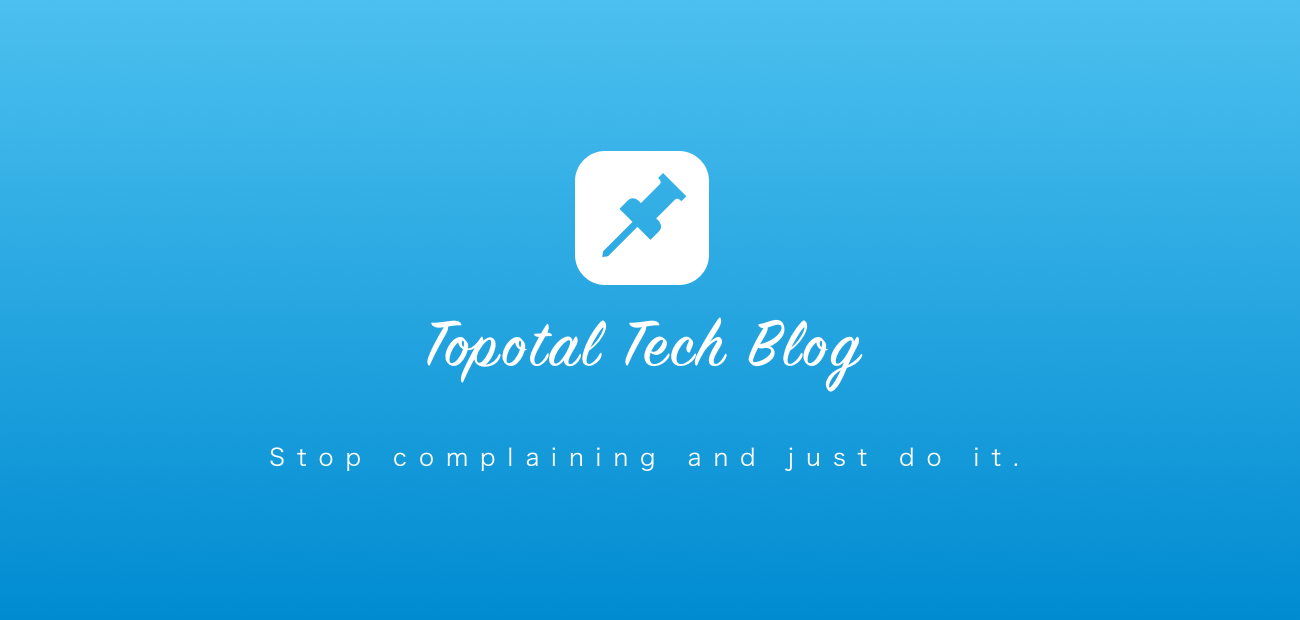
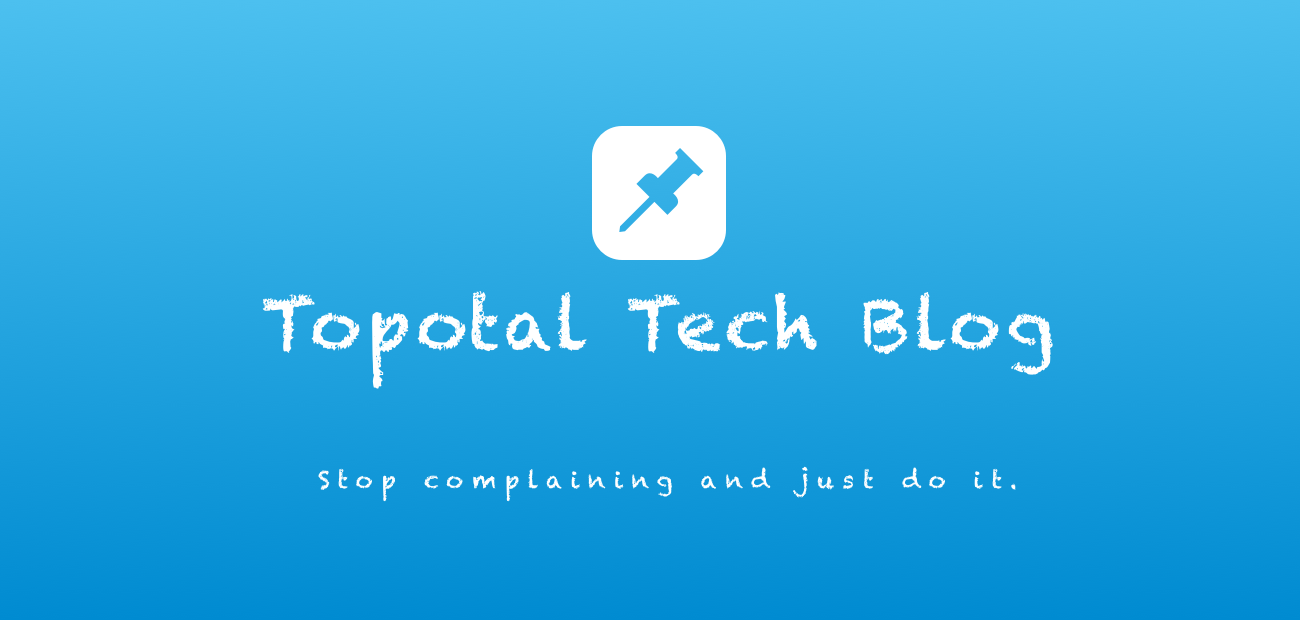
Chage title font.

Changed region(s): [[0.1846, 0.1839, 0.8308, 0.6435], [0.2462, 0.7355, 0.7692, 0.7968], [0.7692, 0.5823, 0.8, 0.6129]]

diff --git a/src/sass/module/_header.scss b/src/sass/module/_header.scss
@@ -24,7 +24,7 @@
       top: 30px;
       img {
         width: auto;
-        height: 72px;
+        height: 71px;
       }
     }
   }
